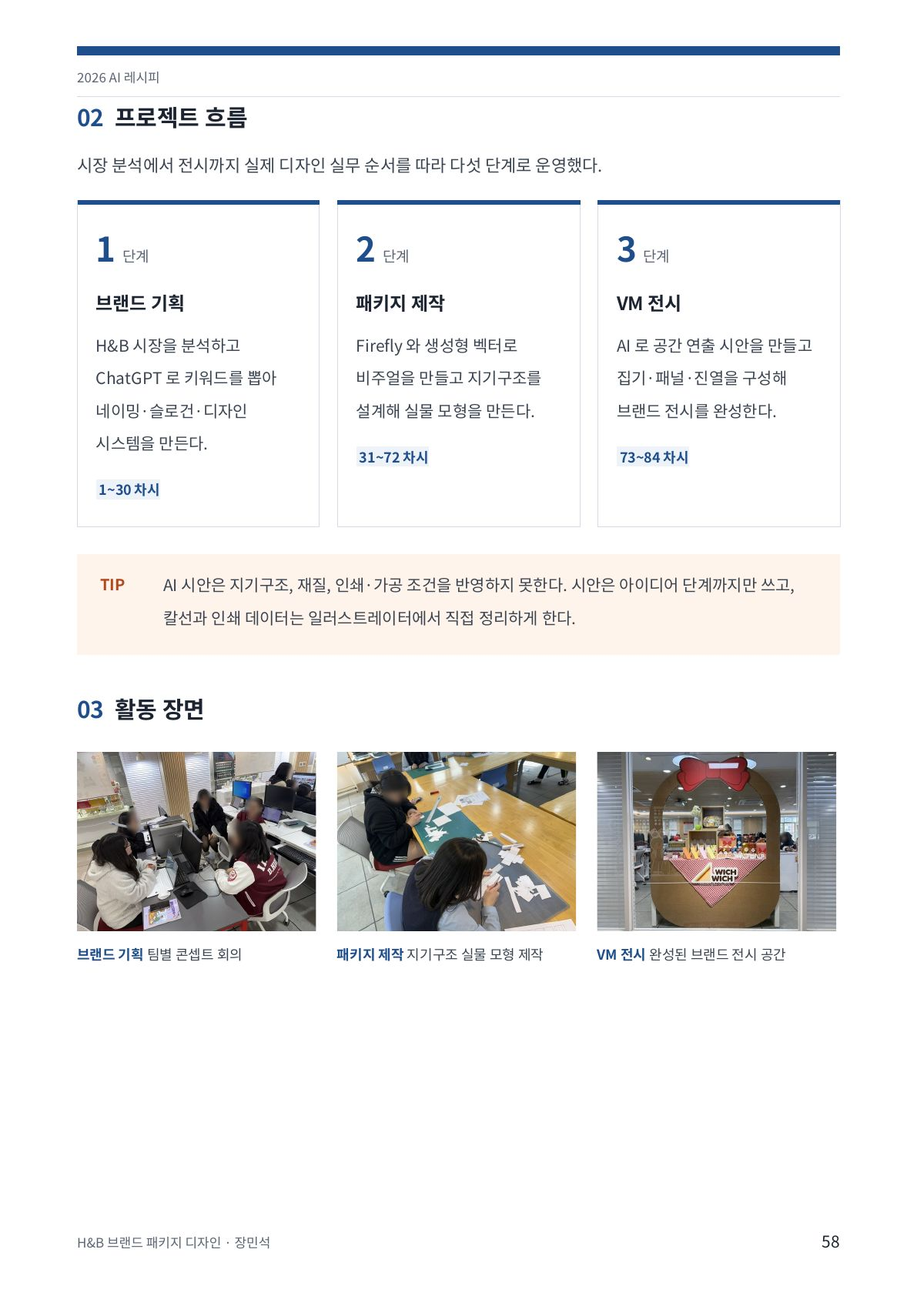
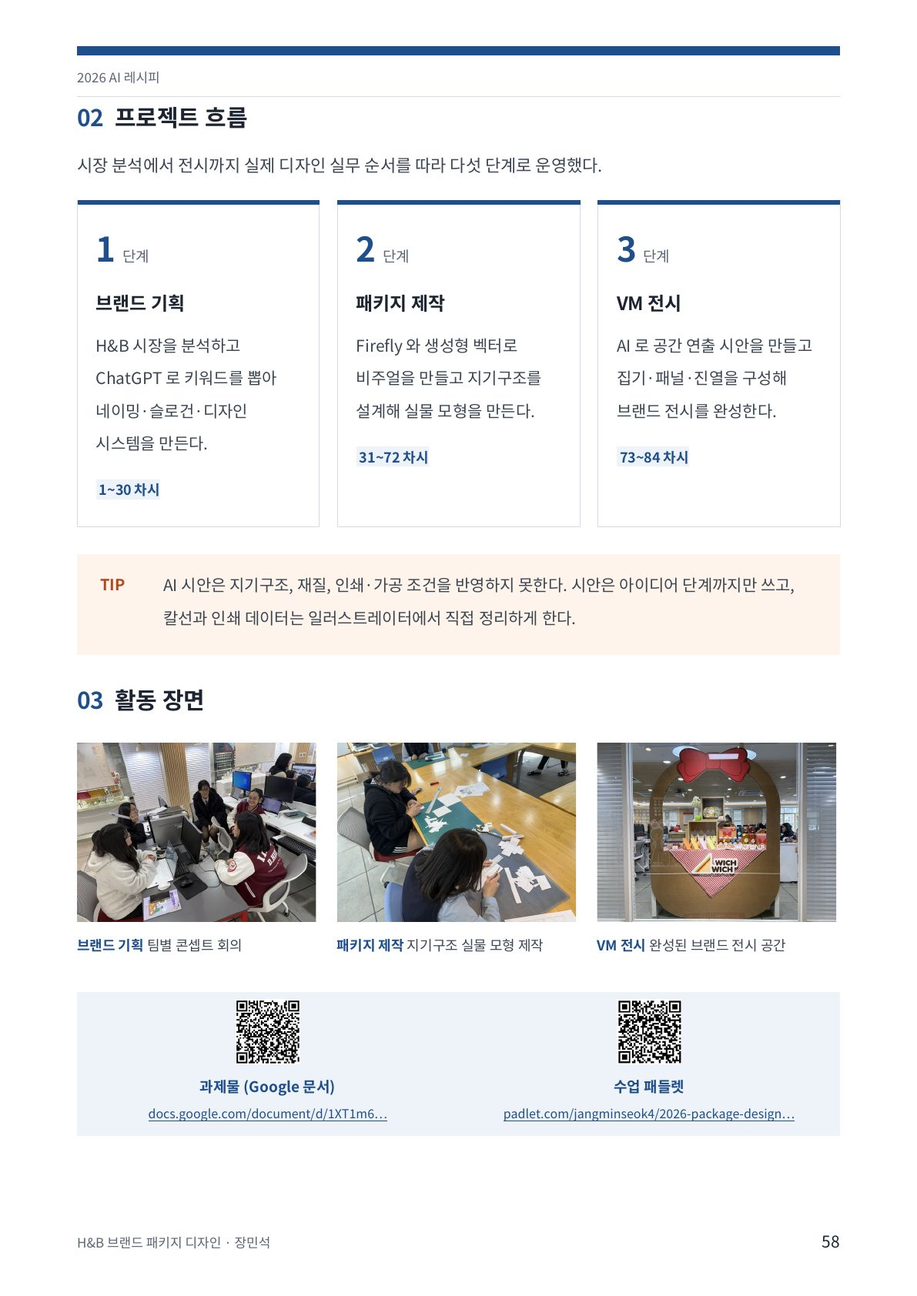
Add files via upload

Changed region(s): [[0.0621, 0.5249, 0.932, 0.7411], [0.5592, 0.772, 0.8699, 0.8646], [0.1553, 0.772, 0.4039, 0.8646]]

diff --git a/index.html b/index.html
@@ -21,7 +21,9 @@ button{font:inherit;color:inherit;cursor:pointer}
 button:focus-visible,a:focus-visible{outline:3px solid #5b9bff;outline-offset:2px}
 header,footer{background:var(--bar);border-bottom:1px solid var(--line);display:flex;align-items:center;gap:12px;padding:8px max(2vw,12px);flex:none}
 footer{border-bottom:0;border-top:1px solid var(--line)}
-.brand{font-weight:900;font-size:17px;letter-spacing:-.01em;white-space:nowrap}
+.brand{font-weight:900;font-size:17px;letter-spacing:-.01em;white-space:nowrap;overflow:hidden;text-overflow:ellipsis;min-width:0;flex:0 1 auto}
+.brand small{font-weight:700}
+@media(max-width:900px){.brand small{display:none}}
 .brand b{color:var(--navy)}:root[data-theme=dark] .brand b{color:#8db6f0}
 @media(prefers-color-scheme:dark){:root:not([data-theme=light]) .brand b{color:#8db6f0}}
 .sp{flex:1}
@@ -40,18 +42,20 @@ input[type=range]{flex:1;accent-color:var(--navy);height:44px}
 .page a.hot{position:absolute;border-radius:3px;background:rgba(31,78,140,0);transition:background .2s}
 .page a.hot:hover,.page a.hot:focus-visible{background:rgba(31,78,140,.14)}
 /* cover */
-.cover{background:var(--navy);color:#fff;display:flex;flex-direction:column;padding:9cqh 9cqw 7cqh}
-.cover .top{font-size:2.3cqh;font-weight:500;opacity:.8;border-top:.5cqh solid #fff;padding-top:1.6cqh}
-.cover h1{font-size:12cqh;line-height:1;font-weight:900;margin:8cqh 0 2.4cqh;letter-spacing:-.03em}
+.cover{background:var(--navy);color:#fff}
+.page>.in{position:absolute;inset:0;display:flex;flex-direction:column}
+.cover>.in{padding:9cqh 9cqw 7cqh}
+.cover .top{white-space:nowrap;font-size:2.3cqh;font-weight:500;opacity:.8;border-top:.5cqh solid #fff;padding-top:1.6cqh}
+.cover h1{white-space:nowrap;font-size:min(12cqh,17cqw);line-height:1;font-weight:900;margin:8cqh 0 2.4cqh;letter-spacing:-.03em}
 .cover h1 span{display:block;font-size:4.2cqh;line-height:1.3;font-weight:500;letter-spacing:0;margin-bottom:3cqh;opacity:.85}
-.cover .tag{line-height:1.45;font-size:3.2cqh;font-weight:500;letter-spacing:.02em;opacity:1;padding-top:2.4cqh;border-top:1px solid rgba(255,255,255,.35);display:inline-block}
+.cover .tag{white-space:nowrap;line-height:1.45;font-size:3.2cqh;font-weight:500;letter-spacing:.02em;opacity:1;padding-top:2.4cqh;border-top:1px solid rgba(255,255,255,.35);display:inline-block}
 .cover p{font-size:2.6cqh;line-height:1.55;margin:0;opacity:.92;max-width:80%}
 .cover .art{flex:1;position:relative;margin:4cqh 0}
 .cover .art svg{position:absolute;inset:0;width:100%;height:100%}
-.cover .bot{font-size:2cqh;display:flex;justify-content:flex-end;align-items:baseline;opacity:.85}
+.cover .bot{white-space:nowrap;font-size:2cqh;display:flex;justify-content:flex-end;align-items:baseline;opacity:.85}
 .cover .bot .school{font-size:2.8cqh;font-weight:700;opacity:1}
 /* toc */
-.toc{padding:8cqh 8cqw;display:flex;flex-direction:column}
+.toc>.in{padding:8cqh 8cqw}
 .toc .hd{border-top:.5cqh solid var(--navy);padding-top:1.6cqh;font-size:1.9cqh;color:#5b6b80;display:flex;justify-content:space-between}
 .toc h2{font-size:4.6cqh;margin:3.5cqh 0 .6cqh;font-weight:900;letter-spacing:-.02em}
 .toc .note{font-size:1.7cqh;color:#5b6b80;margin:0 0 2.4cqh}
@@ -67,7 +71,7 @@ input[type=range]{flex:1;accent-color:var(--navy);height:44px}
 .toc li button:hover .t{color:var(--navy);text-decoration:underline}
 .toc li button:focus-visible{outline:3px solid #5b9bff}
 .toc .n{font-size:1.65cqh;font-weight:700;color:var(--navy);font-variant-numeric:tabular-nums}
-.toc .t{font-size:1.65cqh;line-height:1.35;color:#14243a}
+.toc .t{word-break:keep-all;font-size:1.65cqh;line-height:1.35;color:#14243a}
 .toc .t em{font-style:normal;color:#5b6b80;font-size:1.45cqh}
 .toc li button .t{font-weight:500}
 .toc li.off .n{color:#8aa0bd}
@@ -114,7 +118,7 @@ input[type=range]{flex:1;accent-color:var(--navy);height:44px}
 
 <script>
 {
-const CASES = [{"no": "01", "kind": "수업 사례", "title": "필사타자 · 교과 타자 게임", "sub": "정보 처리와 관리", "pages": [{"img": "p1/d-1.jpg", "links": []}, {"img": "p1/c01-1.jpg", "links": []}, {"img": "p1/c01-2.jpg", "links": []}, {"img": "p1/c01-3.jpg", "links": [[78.71, 25.87, 8.78, 1.55, "https://onmine-alt.github.io/typing-game/"]]}, {"img": "p1/c01-4.jpg", "links": []}], "pre": 1}, {"no": "02", "kind": "수업 사례", "title": "사이언스 덱스 · 화석 탐험 도감", "sub": "과학", "pages": [{"img": "p1/c02-1.jpg", "links": []}, {"img": "p1/c02-2.jpg", "links": [[75.58, 74.93, 11.83, 1.55, "https://kyong2ssam.github.io/fossil-dex/"]]}, {"img": "p1/c02-3.jpg", "links": []}]}, {"no": "03", "kind": "수업 사례", "title": "생태계 평형 시뮬레이터", "sub": "과학", "pages": [{"img": "p1/c03-1.jpg", "links": []}, {"img": "p1/c03-2.jpg", "links": [[76.88, 77.54, 10.09, 1.55, "https://kyong2ssam.github.io/ecosystem_simulator/"]]}, {"img": "p1/c03-3.jpg", "links": []}]}, {"no": "04", "kind": "수업 사례", "title": "일본어 읽기 미션 게임", "sub": "일본어", "pages": [{"img": "p1/c04-1.jpg", "links": []}, {"img": "p1/c04-2.jpg", "links": [[76.98, 74.57, 9.04, 1.55, "https://2danwon.vercel.app/"]]}, {"img": "p1/c04-3.jpg", "links": []}]}, {"no": "05", "kind": "수업 사례", "title": "신나는 화폐 여행 보드게임", "sub": "특수학급", "pages": [{"img": "p1/c05-1.jpg", "links": []}, {"img": "p1/c05-2.jpg", "links": [[76.9, 86.01, 9.2, 1.55, "https://claude.ai/chat/24555cec-0643-4138-bad4-c878952e2497?artifact=bd0ea94b-ffb5-491e-9253-519242832a6c"]]}, {"img": "p1/c05-3.jpg", "links": []}, {"img": "p1/c05-4.jpg", "links": []}]}, {"no": "06", "kind": "수업 사례", "title": "명화, 빛으로 다시 태어나다 · 스테인드글라스 색채 기획 도구", "sub": "디자인", "pages": [{"img": "p1/c06-1.jpg", "links": []}, {"img": "p1/c06-2.jpg", "links": []}, {"img": "p1/c06-3.jpg", "links": []}, {"img": "p1/c06-4.jpg", "links": [[45.98, 51.43, 9.2, 1.55, "https://seohacolorclass.netlify.app/"]]}, {"img": "p1/c06-5.jpg", "links": []}]}, {"no": "07", "kind": "업무 사례", "title": "건축일반 수행평가 관리 시스템", "sub": "", "pages": [{"img": "p1/c07-1.jpg", "links": []}, {"img": "p1/c07-2.jpg", "links": []}, {"img": "p1/c07-3.jpg", "links": [[76.2, 31.84, 10.59, 1.55, "https://script.google.com/a/macros/gclass.ice.go.kr/s/AKfycbwDPR8mU1s0dLBr3Oh-Ud87GvECbYw7_RCJiOshCXXXDvC3_7LSfg9BXJ1kJb0tfmCNlQ/exec"]]}, {"img": "p1/c07-4.jpg", "links": []}]}, {"no": "08", "kind": "업무 사례", "title": "교직원 연수 등록 시스템", "sub": "", "pages": [{"img": "p1/c08-1.jpg", "links": []}, {"img": "p1/c08-2.jpg", "links": [[78.56, 61.84, 9.2, 1.55, "https://script.google.com/macros/s/AKfycbwSlg-lU3y91wYbLd0xmjNVUZYDNEHUmzGIbFHcfQdvEnmjXlsgvZCquf_VHKKy3eSEiA/exec"]]}, {"img": "p1/c08-3.jpg", "links": []}, {"img": "p1/c08-4.jpg", "links": []}]}, {"no": "09", "kind": "업무 사례", "title": "당신의 내일을 응원합니다 · 취업지원부 안내 웹앱", "sub": "", "pages": [{"img": "p1/c09-1.jpg", "links": []}, {"img": "p1/c09-2.jpg", "links": [[75.58, 75.0, 11.83, 1.55, "https://indigo520.vercel.app/"]]}, {"img": "p1/c09-3.jpg", "links": []}]}, {"no": "10", "kind": "업무 사례", "title": "진로 상담 설문 · 인천직업교육박람회", "sub": "", "pages": [{"img": "p1/c10-1.jpg", "links": []}, {"img": "p1/c10-2.jpg", "links": []}, {"img": "p1/c10-3.jpg", "links": []}, {"img": "p1/c10-4.jpg", "links": []}, {"img": "p1/c10-5.jpg", "links": []}, {"img": "p1/c10-6.jpg", "links": []}]}, {"no": "11", "kind": "업무 사례", "title": "면접 대비 등록 · 제품디자인과 3학년", "sub": "", "pages": [{"img": "p1/c11-1.jpg", "links": []}, {"img": "p1/c11-2.jpg", "links": [[75.41, 72.08, 12.16, 1.55, "https://script.google.com/a/macros/gclass.ice.go.kr/s/AKfycbzAL1Tqh7t2QKw4n2QopjK20wlvIbRUDzNJXgeestH46kzH_YuQUS1RP8VTr1FQeODX/exec"]]}, {"img": "p1/c11-3.jpg", "links": []}]}, {"no": "12", "kind": "업무 사례", "title": "오늘 뭐 읽지? · NEW BOOK PICK", "sub": "", "pages": [{"img": "p1/c12-1.jpg", "links": []}, {"img": "p1/c12-2.jpg", "links": [[74.32, 78.06, 15.2, 1.55, "https://new-book-pick-doseo-cuceon-aeb.vercel.app/"]]}, {"img": "p1/c12-3.jpg", "links": []}]}, {"no": "13", "kind": "5개 학과 사례", "title": "AI와 함께 설계하는 미래형 주택", "sub": "건축디자인과", "pages": [{"img": "p1/d-2.jpg", "links": []}, {"img": "p1/c13-1.jpg", "links": []}, {"img": "p1/c13-2.jpg", "links": []}, {"img": "p1/c13-3.jpg", "links": []}], "pre": 1}, {"no": "14", "kind": "5개 학과 사례", "title": "빛으로 입히는 도자 문양", "sub": "도예디자인과", "pages": [{"img": "p1/c14-1.jpg", "links": []}, {"img": "p1/c14-2.jpg", "links": [[20.74, 85.24, 16.93, 1.38, "https://www.canvaqr.com/RGXuVH2nrO"], [58.45, 85.24, 24.72, 1.38, "https://drive.google.com/drive/folders/1gO7q-fwfzMeuWrWPMCtf4W5tdabV8Dvh?usp=drive_link"]]}, {"img": "p1/c14-3.jpg", "links": []}]}, {"no": "15", "kind": "5개 학과 사례", "title": "H&B 브랜드 패키지 디자인", "sub": "시각디자인과", "pages": [{"img": "p1/c15-1.jpg", "links": []}, {"img": "p1/c15-2.jpg", "links": []}, {"img": "p1/c15-3.jpg", "links": []}]}, {"no": "16", "kind": "5개 학과 사례", "title": "나를 닮은 캐릭터 피규어", "sub": "제품디자인과", "pages": [{"img": "p1/c16-1.jpg", "links": []}, {"img": "p1/c16-2.jpg", "links": []}, {"img": "p1/c16-3.jpg", "links": []}]}, {"no": "17", "kind": "5개 학과 사례", "title": "AI 융합 패션디자인", "sub": "패션디자인과", "pages": [{"img": "p1/c17-1.jpg", "links": []}, {"img": "p1/c17-2.jpg", "links": [[24.35, 84.22, 21.97, 1.55, "https://m.site.naver.com/2lzCa"]]}, {"img": "p1/c17-3.jpg", "links": []}]}, {"no": "18", "kind": "교과 사례", "title": "AI와 함께 만드는 ‘나를 소개합니다’ 프로젝트", "sub": "정보 처리와 관리", "pages": [{"img": "p2/c18-1.jpg", "links": []}, {"img": "p2/c18-2.jpg", "links": [[73.36, 81.59, 7.71, 1.63, "https://padlet.com/icedukr/1-2-a8mvstyo172hej5s"]]}, {"img": "p2/c18-3.jpg", "links": []}]}, {"no": "19", "kind": "교과 사례", "title": "탄소 중립 에코 스마트 시티 설계", "sub": "통합과학", "pages": [{"img": "p2/c19-1.jpg", "links": []}, {"img": "p2/c19-2.jpg", "links": []}, {"img": "p2/c19-3.jpg", "links": []}]}, {"no": "20", "kind": "교과 사례", "title": "노션으로 잇는 수업·기록·평가", "sub": "통합사회2", "pages": [{"img": "p2/c20-1.jpg", "links": []}, {"img": "p2/c20-2.jpg", "links": []}, {"img": "p2/c20-3.jpg", "links": []}]}, {"no": "21", "kind": "교과 사례", "title": "노트북LM으로 짓는 삶과 인권 수업", "sub": "통합사회2", "pages": [{"img": "p2/c21-1.jpg", "links": []}, {"img": "p2/c21-2.jpg", "links": []}, {"img": "p2/c21-3.jpg", "links": []}]}, {"no": "22", "kind": "교과 사례", "title": "노트북LM으로 만드는 한국사 수업 자료", "sub": "한국사2", "pages": [{"img": "p2/c22-1.jpg", "links": []}, {"img": "p2/c22-2.jpg", "links": []}, {"img": "p2/c22-3.jpg", "links": []}]}, {"no": "23", "kind": "교과 사례", "title": "일제강점기 역사 신문, 영상이 되다", "sub": "한국사2", "pages": [{"img": "p2/c23-1.jpg", "links": []}, {"img": "p2/c23-2.jpg", "links": [[72.32, 69.91, 4.03, 1.55, "https://drive.google.com/file/d/1E3Js638kzXX469TrUWBBQ5skG8ZX8Wje/view?usp=drive_link"], [80.4, 69.91, 4.03, 1.55, "https://drive.google.com/file/d/1f9-jnTe0ZbOOxosWe36XAF1lNEOobt7F/view?usp=drive_link"]]}, {"img": "p2/c23-3.jpg", "links": []}]}, {"no": "24", "kind": "AI 코스웨어", "title": "AI와 함께하는 영어 문해력 점프업", "sub": "영어", "pages": [{"img": "p1/d-3.jpg", "links": []}, {"img": "p2/c24-1.jpg", "links": []}, {"img": "p2/c24-2.jpg", "links": []}, {"img": "p2/c24-3.jpg", "links": []}], "pre": 1}, {"no": "25", "kind": "AI 코스웨어", "title": "AI 코스웨어 수학 레벨-업", "sub": "수학", "pages": [{"img": "p2/c25-1.jpg", "links": []}, {"img": "p2/c25-2.jpg", "links": []}, {"img": "p2/c25-3.jpg", "links": []}]}, {"no": "26", "kind": "AI 동아리 사례", "title": "케냐 소웨토에 보내는 영어 동화책", "sub": "스토리움", "pages": [{"img": "p1/d-4.jpg", "links": []}, {"img": "p2/c26-1.jpg", "links": []}, {"img": "p2/c26-2.jpg", "links": [[24.35, 86.31, 43.43, 1.55, "https://padlet.app/qr-code/1v89xyd7e3pgk6j0?source=dialog"]]}, {"img": "p2/c26-3.jpg", "links": []}], "pre": 1}, {"no": "27", "kind": "AI 동아리 사례", "title": "보드게임 카페에서 시작한 게임 개발", "sub": "보드게임카페", "pages": [{"img": "p2/c27-1.jpg", "links": []}, {"img": "p2/c27-2.jpg", "links": [[14.78, 85.24, 14.99, 1.38, "https://m.site.naver.com/2l8D7"], [70.34, 85.24, 14.8, 1.38, "https://m.site.naver.com/2l8Ey"], [42.48, 85.24, 15.05, 1.38, "https://m.site.naver.com/2l8DT"]]}, {"img": "p2/c27-3.jpg", "links": []}]}, {"no": "28", "kind": "AI 동아리 사례", "title": "AI로 디자인한 우리 학교", "sub": "비주얼디자인멤버스", "pages": [{"img": "p2/c28-1.jpg", "links": []}, {"img": "p2/c28-2.jpg", "links": []}, {"img": "p2/c28-3.jpg", "links": []}]}, {"no": "29", "kind": "AI 동아리 사례", "title": "AI와 함께 디자인하고 나누다", "sub": "패션창업반 체리쉬", "pages": [{"img": "p2/c29-1.jpg", "links": []}, {"img": "p2/c29-2.jpg", "links": []}, {"img": "p2/c29-3.jpg", "links": []}]}, {"no": "30", "kind": "AI 동아리 사례", "title": "너의 이름을 모르는 채로", "sub": "AI씨네마", "pages": [{"img": "p2/c30-1.jpg", "links": []}, {"img": "p2/c30-2.jpg", "links": [[24.35, 84.22, 34.08, 1.55, "https://padlet.com/icedukr/ai-csl0vwxren0velk1"]]}, {"img": "p2/c30-3.jpg", "links": []}]}, {"no": "31", "kind": "AI 동아리 사례", "title": "한 땀 한 땀, AI와 함께", "sub": "AI 티끌모아 바느질 클럽", "pages": [{"img": "p2/c31-1.jpg", "links": []}, {"img": "p2/c31-2.jpg", "links": [[14.77, 87.26, 15.0, 1.38, "https://m.site.naver.com/2lC0d"], [70.22, 87.26, 15.05, 1.38, "https://m.site.naver.com/2luPh"], [42.57, 87.26, 14.89, 1.38, "https://m.site.naver.com/2luLX"]]}, {"img": "p2/c31-3.jpg", "links": []}]}, {"no": "32", "kind": "AI 전문적학습공동체 활동", "title": "디지털설계공작소", "sub": "건축디자인과", "pages": [{"img": "p1/d-5.jpg", "links": []}, {"img": "p2/c32-1.jpg", "links": []}, {"img": "p2/c32-2.jpg", "links": []}, {"img": "p2/c32-3.jpg", "links": []}], "pre": 1}, {"no": "33", "kind": "AI 전문적학습공동체 활동", "title": "AI 갤러리", "sub": "도예디자인과", "pages": [{"img": "p2/c33-1.jpg", "links": []}, {"img": "p2/c33-2.jpg", "links": []}, {"img": "p2/c33-3.jpg", "links": []}]}, {"no": "34", "kind": "AI 전문적학습공동체 활동", "title": "AI·패션스튜디오", "sub": "패션디자인과", "pages": [{"img": "p2/c34-1.jpg", "links": []}, {"img": "p2/c34-2.jpg", "links": [[14.65, 87.26, 15.25, 1.38, "https://m.site.naver.com/2lBbU"], [70.39, 87.26, 14.69, 1.38, "https://m.site.naver.com/2lBlC"], [42.46, 87.26, 15.09, 1.38, "https://m.site.naver.com/2lBnh"]]}, {"img": "p2/c34-3.jpg", "links": []}]}, {"no": "35", "kind": "AI 전문적학습공동체 활동", "title": "AI디어 광고 연구소", "sub": "디자인·사회 교과", "pages": [{"img": "p2/c35-1.jpg", "links": []}, {"img": "p2/c35-2.jpg", "links": [[24.35, 86.23, 20.84, 1.55, "https://total-page.pages.dev/"]]}, {"img": "p2/c35-3.jpg", "links": []}]}, {"no": "36", "kind": "AI 전문적학습공동체 활동", "title": "AI 레시피", "sub": "교사 12명", "pages": [{"img": "p2/c36-1.jpg", "links": []}, {"img": "p2/c36-2.jpg", "links": []}, {"img": "p2/c36-3.jpg", "links": [[18.49, 90.39, 21.45, 1.38, "https://onmine-alt.github.io/typing-game/"], [60.61, 90.39, 20.38, 1.38, "https://kyong2ssam.github.io/fossil-dex/"]]}, {"img": "p1/thanks.jpg", "links": []}]}];
+const CASES = [{"no": "01", "kind": "수업 사례", "title": "필사타자 · 교과 타자 게임", "sub": "정보 처리와 관리", "pages": [{"img": "p1/d-1.jpg", "links": []}, {"img": "p1/c01-1.jpg", "links": []}, {"img": "p1/c01-2.jpg", "links": []}, {"img": "p1/c01-3.jpg", "links": [[78.71, 25.87, 8.78, 1.55, "https://onmine-alt.github.io/typing-game/"]]}, {"img": "p1/c01-4.jpg", "links": []}], "pre": 1}, {"no": "02", "kind": "수업 사례", "title": "사이언스 덱스 · 화석 탐험 도감", "sub": "과학", "pages": [{"img": "p1/c02-1.jpg", "links": []}, {"img": "p1/c02-2.jpg", "links": [[75.58, 74.93, 11.83, 1.55, "https://kyong2ssam.github.io/fossil-dex/"]]}, {"img": "p1/c02-3.jpg", "links": []}]}, {"no": "03", "kind": "수업 사례", "title": "생태계 평형 시뮬레이터", "sub": "과학", "pages": [{"img": "p1/c03-1.jpg", "links": []}, {"img": "p1/c03-2.jpg", "links": [[76.88, 77.54, 10.09, 1.55, "https://kyong2ssam.github.io/ecosystem_simulator/"]]}, {"img": "p1/c03-3.jpg", "links": []}]}, {"no": "04", "kind": "수업 사례", "title": "일본어 읽기 미션 게임", "sub": "일본어", "pages": [{"img": "p1/c04-1.jpg", "links": []}, {"img": "p1/c04-2.jpg", "links": [[76.98, 74.57, 9.04, 1.55, "https://2danwon.vercel.app/"]]}, {"img": "p1/c04-3.jpg", "links": []}]}, {"no": "05", "kind": "수업 사례", "title": "신나는 화폐 여행 보드게임", "sub": "특수학급", "pages": [{"img": "p1/c05-1.jpg", "links": []}, {"img": "p1/c05-2.jpg", "links": [[76.9, 86.01, 9.2, 1.55, "https://claude.ai/chat/24555cec-0643-4138-bad4-c878952e2497?artifact=bd0ea94b-ffb5-491e-9253-519242832a6c"]]}, {"img": "p1/c05-3.jpg", "links": []}, {"img": "p1/c05-4.jpg", "links": []}]}, {"no": "06", "kind": "수업 사례", "title": "명화, 빛으로 다시 태어나다 · 스테인드글라스 색채 기획 도구", "sub": "디자인", "pages": [{"img": "p1/c06-1.jpg", "links": []}, {"img": "p1/c06-2.jpg", "links": []}, {"img": "p1/c06-3.jpg", "links": []}, {"img": "p1/c06-4.jpg", "links": [[45.98, 51.43, 9.2, 1.55, "https://seohacolorclass.netlify.app/"]]}, {"img": "p1/c06-5.jpg", "links": []}]}, {"no": "07", "kind": "업무 사례", "title": "건축일반 수행평가 관리 시스템", "sub": "", "pages": [{"img": "p1/c07-1.jpg", "links": []}, {"img": "p1/c07-2.jpg", "links": []}, {"img": "p1/c07-3.jpg", "links": [[76.2, 31.84, 10.59, 1.55, "https://script.google.com/a/macros/gclass.ice.go.kr/s/AKfycbwDPR8mU1s0dLBr3Oh-Ud87GvECbYw7_RCJiOshCXXXDvC3_7LSfg9BXJ1kJb0tfmCNlQ/exec"]]}, {"img": "p1/c07-4.jpg", "links": []}]}, {"no": "08", "kind": "업무 사례", "title": "교직원 연수 등록 시스템", "sub": "", "pages": [{"img": "p1/c08-1.jpg", "links": []}, {"img": "p1/c08-2.jpg", "links": [[78.56, 61.84, 9.2, 1.55, "https://script.google.com/macros/s/AKfycbwSlg-lU3y91wYbLd0xmjNVUZYDNEHUmzGIbFHcfQdvEnmjXlsgvZCquf_VHKKy3eSEiA/exec"]]}, {"img": "p1/c08-3.jpg", "links": []}, {"img": "p1/c08-4.jpg", "links": []}]}, {"no": "09", "kind": "업무 사례", "title": "당신의 내일을 응원합니다 · 취업지원부 안내 웹앱", "sub": "", "pages": [{"img": "p1/c09-1.jpg", "links": []}, {"img": "p1/c09-2.jpg", "links": [[75.58, 75.0, 11.83, 1.55, "https://indigo520.vercel.app/"]]}, {"img": "p1/c09-3.jpg", "links": []}]}, {"no": "10", "kind": "업무 사례", "title": "진로 상담 설문 · 인천직업교육박람회", "sub": "", "pages": [{"img": "p1/c10-1.jpg", "links": []}, {"img": "p1/c10-2.jpg", "links": []}, {"img": "p1/c10-3.jpg", "links": []}, {"img": "p1/c10-4.jpg", "links": []}, {"img": "p1/c10-5.jpg", "links": []}, {"img": "p1/c10-6.jpg", "links": []}]}, {"no": "11", "kind": "업무 사례", "title": "면접 대비 등록 · 제품디자인과 3학년", "sub": "", "pages": [{"img": "p1/c11-1.jpg", "links": []}, {"img": "p1/c11-2.jpg", "links": [[75.41, 72.08, 12.16, 1.55, "https://script.google.com/a/macros/gclass.ice.go.kr/s/AKfycbzAL1Tqh7t2QKw4n2QopjK20wlvIbRUDzNJXgeestH46kzH_YuQUS1RP8VTr1FQeODX/exec"]]}, {"img": "p1/c11-3.jpg", "links": []}]}, {"no": "12", "kind": "업무 사례", "title": "오늘 뭐 읽지? · NEW BOOK PICK", "sub": "", "pages": [{"img": "p1/c12-1.jpg", "links": []}, {"img": "p1/c12-2.jpg", "links": [[74.32, 78.06, 15.2, 1.55, "https://new-book-pick-doseo-cuceon-aeb.vercel.app/"]]}, {"img": "p1/c12-3.jpg", "links": []}]}, {"no": "13", "kind": "5개 학과 사례", "title": "AI와 함께 설계하는 미래형 주택", "sub": "건축디자인과", "pages": [{"img": "p1/d-2.jpg", "links": []}, {"img": "p1/c13-1.jpg", "links": []}, {"img": "p1/c13-2.jpg", "links": []}, {"img": "p1/c13-3.jpg", "links": []}], "pre": 1}, {"no": "14", "kind": "5개 학과 사례", "title": "빛으로 입히는 도자 문양", "sub": "도예디자인과", "pages": [{"img": "p1/c14-1.jpg", "links": []}, {"img": "p1/c14-2.jpg", "links": [[20.74, 85.24, 16.93, 1.38, "https://www.canvaqr.com/RGXuVH2nrO"], [58.45, 85.24, 24.72, 1.38, "https://drive.google.com/drive/folders/1gO7q-fwfzMeuWrWPMCtf4W5tdabV8Dvh?usp=drive_link"]]}, {"img": "p1/c14-3.jpg", "links": []}]}, {"no": "15", "kind": "5개 학과 사례", "title": "H&B 브랜드 패키지 디자인", "sub": "시각디자인과", "pages": [{"img": "p1/c15-1.jpg", "links": []}, {"img": "p1/c15-2.jpg", "links": [[16.16, 85.24, 26.09, 1.38, "https://docs.google.com/document/d/1XT1m6OUVmxnib5QbHBBDJupOWl5-mVNupCGdV5meNv0/edit?usp=sharing"], [54.9, 85.24, 31.82, 1.38, "https://padlet.com/jangminseok4/2026-package-design-9aa865cun4k2dhoz"]]}, {"img": "p1/c15-3.jpg", "links": []}]}, {"no": "16", "kind": "5개 학과 사례", "title": "나를 닮은 캐릭터 피규어", "sub": "제품디자인과", "pages": [{"img": "p1/c16-1.jpg", "links": []}, {"img": "p1/c16-2.jpg", "links": []}, {"img": "p1/c16-3.jpg", "links": []}]}, {"no": "17", "kind": "5개 학과 사례", "title": "AI 융합 패션디자인", "sub": "패션디자인과", "pages": [{"img": "p1/c17-1.jpg", "links": []}, {"img": "p1/c17-2.jpg", "links": [[24.35, 84.22, 21.97, 1.55, "https://m.site.naver.com/2lzCa"]]}, {"img": "p1/c17-3.jpg", "links": []}]}, {"no": "18", "kind": "교과 사례", "title": "AI와 함께 만드는 ‘나를 소개합니다’ 프로젝트", "sub": "정보 처리와 관리", "pages": [{"img": "p2/c18-1.jpg", "links": []}, {"img": "p2/c18-2.jpg", "links": [[73.36, 81.59, 7.71, 1.63, "https://padlet.com/icedukr/1-2-a8mvstyo172hej5s"]]}, {"img": "p2/c18-3.jpg", "links": []}]}, {"no": "19", "kind": "교과 사례", "title": "탄소 중립 에코 스마트 시티 설계", "sub": "통합과학", "pages": [{"img": "p2/c19-1.jpg", "links": []}, {"img": "p2/c19-2.jpg", "links": []}, {"img": "p2/c19-3.jpg", "links": []}]}, {"no": "20", "kind": "교과 사례", "title": "노션으로 잇는 수업·기록·평가", "sub": "통합사회2", "pages": [{"img": "p2/c20-1.jpg", "links": []}, {"img": "p2/c20-2.jpg", "links": []}, {"img": "p2/c20-3.jpg", "links": []}]}, {"no": "21", "kind": "교과 사례", "title": "노트북LM으로 짓는 삶과 인권 수업", "sub": "통합사회2", "pages": [{"img": "p2/c21-1.jpg", "links": []}, {"img": "p2/c21-2.jpg", "links": []}, {"img": "p2/c21-3.jpg", "links": []}]}, {"no": "22", "kind": "교과 사례", "title": "노트북LM으로 만드는 한국사 수업 자료", "sub": "한국사2", "pages": [{"img": "p2/c22-1.jpg", "links": []}, {"img": "p2/c22-2.jpg", "links": []}, {"img": "p2/c22-3.jpg", "links": []}]}, {"no": "23", "kind": "교과 사례", "title": "일제강점기 역사 신문, 영상이 되다", "sub": "한국사2", "pages": [{"img": "p2/c23-1.jpg", "links": []}, {"img": "p2/c23-2.jpg", "links": [[72.32, 69.91, 4.03, 1.55, "https://drive.google.com/file/d/1E3Js638kzXX469TrUWBBQ5skG8ZX8Wje/view?usp=drive_link"], [80.4, 69.91, 4.03, 1.55, "https://drive.google.com/file/d/1f9-jnTe0ZbOOxosWe36XAF1lNEOobt7F/view?usp=drive_link"]]}, {"img": "p2/c23-3.jpg", "links": []}]}, {"no": "24", "kind": "AI 코스웨어", "title": "AI와 함께하는 영어 문해력 점프업", "sub": "영어", "pages": [{"img": "p1/d-3.jpg", "links": []}, {"img": "p2/c24-1.jpg", "links": []}, {"img": "p2/c24-2.jpg", "links": []}, {"img": "p2/c24-3.jpg", "links": []}], "pre": 1}, {"no": "25", "kind": "AI 코스웨어", "title": "AI 코스웨어 수학 레벨-업", "sub": "수학", "pages": [{"img": "p2/c25-1.jpg", "links": []}, {"img": "p2/c25-2.jpg", "links": []}, {"img": "p2/c25-3.jpg", "links": []}]}, {"no": "26", "kind": "AI 동아리 사례", "title": "케냐 소웨토에 보내는 영어 동화책", "sub": "스토리움", "pages": [{"img": "p1/d-4.jpg", "links": []}, {"img": "p2/c26-1.jpg", "links": []}, {"img": "p2/c26-2.jpg", "links": [[24.35, 86.31, 43.43, 1.55, "https://padlet.app/qr-code/1v89xyd7e3pgk6j0?source=dialog"]]}, {"img": "p2/c26-3.jpg", "links": []}], "pre": 1}, {"no": "27", "kind": "AI 동아리 사례", "title": "보드게임 카페에서 시작한 게임 개발", "sub": "보드게임카페", "pages": [{"img": "p2/c27-1.jpg", "links": []}, {"img": "p2/c27-2.jpg", "links": [[14.78, 85.24, 14.99, 1.38, "https://m.site.naver.com/2l8D7"], [70.34, 85.24, 14.8, 1.38, "https://m.site.naver.com/2l8Ey"], [42.48, 85.24, 15.05, 1.38, "https://m.site.naver.com/2l8DT"]]}, {"img": "p2/c27-3.jpg", "links": []}]}, {"no": "28", "kind": "AI 동아리 사례", "title": "AI로 디자인한 우리 학교", "sub": "비주얼디자인멤버스", "pages": [{"img": "p2/c28-1.jpg", "links": []}, {"img": "p2/c28-2.jpg", "links": []}, {"img": "p2/c28-3.jpg", "links": []}]}, {"no": "29", "kind": "AI 동아리 사례", "title": "AI와 함께 디자인하고 나누다", "sub": "패션창업반 체리쉬", "pages": [{"img": "p2/c29-1.jpg", "links": []}, {"img": "p2/c29-2.jpg", "links": []}, {"img": "p2/c29-3.jpg", "links": []}]}, {"no": "30", "kind": "AI 동아리 사례", "title": "너의 이름을 모르는 채로", "sub": "AI씨네마", "pages": [{"img": "p2/c30-1.jpg", "links": []}, {"img": "p2/c30-2.jpg", "links": [[24.35, 84.22, 34.08, 1.55, "https://padlet.com/icedukr/ai-csl0vwxren0velk1"]]}, {"img": "p2/c30-3.jpg", "links": []}]}, {"no": "31", "kind": "AI 동아리 사례", "title": "한 땀 한 땀, AI와 함께", "sub": "AI 티끌모아 바느질 클럽", "pages": [{"img": "p2/c31-1.jpg", "links": []}, {"img": "p2/c31-2.jpg", "links": [[14.77, 87.26, 15.0, 1.38, "https://m.site.naver.com/2lC0d"], [70.22, 87.26, 15.05, 1.38, "https://m.site.naver.com/2luPh"], [42.57, 87.26, 14.89, 1.38, "https://m.site.naver.com/2luLX"]]}, {"img": "p2/c31-3.jpg", "links": []}]}, {"no": "32", "kind": "AI 전문적학습공동체 활동", "title": "디지털설계공작소", "sub": "건축디자인과", "pages": [{"img": "p1/d-5.jpg", "links": []}, {"img": "p2/c32-1.jpg", "links": []}, {"img": "p2/c32-2.jpg", "links": []}, {"img": "p2/c32-3.jpg", "links": []}], "pre": 1}, {"no": "33", "kind": "AI 전문적학습공동체 활동", "title": "AI 갤러리", "sub": "도예디자인과", "pages": [{"img": "p2/c33-1.jpg", "links": []}, {"img": "p2/c33-2.jpg", "links": []}, {"img": "p2/c33-3.jpg", "links": []}]}, {"no": "34", "kind": "AI 전문적학습공동체 활동", "title": "AI·패션스튜디오", "sub": "패션디자인과", "pages": [{"img": "p2/c34-1.jpg", "links": []}, {"img": "p2/c34-2.jpg", "links": [[14.65, 87.26, 15.25, 1.38, "https://m.site.naver.com/2lBbU"], [70.39, 87.26, 14.69, 1.38, "https://m.site.naver.com/2lBlC"], [42.46, 87.26, 15.09, 1.38, "https://m.site.naver.com/2lBnh"]]}, {"img": "p2/c34-3.jpg", "links": []}]}, {"no": "35", "kind": "AI 전문적학습공동체 활동", "title": "AI디어 광고 연구소", "sub": "디자인·사회 교과", "pages": [{"img": "p2/c35-1.jpg", "links": []}, {"img": "p2/c35-2.jpg", "links": [[24.35, 86.23, 20.84, 1.55, "https://total-page.pages.dev/"]]}, {"img": "p2/c35-3.jpg", "links": []}]}, {"no": "36", "kind": "AI 전문적학습공동체 활동", "title": "AI 레시피", "sub": "교사 12명", "pages": [{"img": "p2/c36-1.jpg", "links": []}, {"img": "p2/c36-2.jpg", "links": []}, {"img": "p2/c36-3.jpg", "links": [[18.49, 90.39, 21.45, 1.38, "https://onmine-alt.github.io/typing-game/"], [60.61, 90.39, 20.38, 1.38, "https://kyong2ssam.github.io/fossil-dex/"]]}, {"img": "p1/thanks.jpg", "links": []}]}];
 
 // flat page list: cover, toc, then each case page
 const TOC = [["Ⅰ", "앱 제작", [["수업 사례", [["01", "필사타자 · 교과 타자 게임", "정보 처리와 관리"], ["02", "사이언스 덱스 · 화석 탐험 도감", "과학"], ["03", "생태계 평형 시뮬레이터", "과학"], ["04", "일본어 읽기 미션 게임", "일본어"], ["05", "신나는 화폐 여행 보드게임", "특수학급"], ["06", "명화, 빛으로 다시 태어나다 · 스테인드글라스 색채 기획 도구", "디자인"]]], ["업무 사례", [["07", "건축일반 수행평가 관리 시스템", ""], ["08", "교직원 연수 등록 시스템", ""], ["09", "당신의 내일을 응원합니다 · 취업지원부 안내 웹앱", ""], ["10", "진로 상담 설문 · 인천직업교육박람회", ""], ["11", "면접 대비 등록 · 제품디자인과 3학년", ""], ["12", "오늘 뭐 읽지? · NEW BOOK PICK", ""]]]]], ["Ⅱ", "AI 에듀테크 활용", [["5개 학과 사례", [["13", "AI와 함께 설계하는 미래형 주택", "건축디자인과"], ["14", "빛으로 입히는 도자 문양", "도예디자인과"], ["15", "H&B 브랜드 패키지 디자인", "시각디자인과"], ["16", "나를 닮은 캐릭터 피규어", "제품디자인과"], ["17", "AI 융합 패션디자인", "패션디자인과"]]], ["교과 사례", [["18", "AI와 함께 만드는 ‘나를 소개합니다’ 프로젝트", "정보 처리와 관리"], ["19", "탄소 중립 에코 스마트 시티 설계", "통합과학"], ["20", "노션으로 잇는 수업·기록·평가", "통합사회2"], ["21", "노트북LM으로 짓는 삶과 인권 수업", "통합사회2"], ["22", "노트북LM으로 만드는 한국사 수업 자료", "한국사2"], ["23", "일제강점기 역사 신문, 영상이 되다", "한국사2"]]]]], ["Ⅲ", "AI 코스웨어", [[null, [["24", "AI와 함께하는 영어 문해력 점프업", "영어"], ["25", "AI 코스웨어 수학 레벨-업", "수학"]]]]], ["Ⅳ", "AI 동아리 사례", [[null, [["26", "케냐 소웨토에 보내는 영어 동화책", "스토리움"], ["27", "보드게임 카페에서 시작한 게임 개발", "보드게임카페"], ["28", "AI로 디자인한 우리 학교", "비주얼디자인멤버스"], ["29", "AI와 함께 디자인하고 나누다", "패션창업반 체리쉬"], ["30", "너의 이름을 모르는 채로", "AI씨네마"], ["31", "한 땀 한 땀, AI와 함께", "AI 티끌모아 바느질 클럽"]]]]], ["Ⅴ", "AI 전문적학습공동체 활동", [[null, [["32", "디지털설계공작소", "건축디자인과"], ["33", "AI 갤러리", "도예디자인과"], ["34", "AI·패션스튜디오", "패션디자인과"], ["35", "AI디어 광고 연구소", "디자인·사회 교과"], ["36", "AI 레시피", "교사 12명"]]]]]];
@@ -125,7 +129,7 @@ const pno = i => i; // printed page number (cover = 0, 목차 = 1)
 
 const esc = s => String(s).replace(/[&<>"']/g, m => ({'&':'&amp;','<':'&lt;','>':'&gt;','"':'&quot;',"'":'&#39;'}[m]));
 
-const coverHTML = () => `<div class="page cover">
+const coverHTML = () => `<div class="page cover"><div class="in">
   <div class="top">2026 AI 디지털 활용 선도학교</div>
   <h1><span>AI 에듀테크 활용<br>앱 제작 사례집</span>AI 레시피</h1>
   <p class="tag">배우고, 만들고, 엮다</p>
@@ -143,17 +147,17 @@ const coverHTML = () => `<div class="page cover">
     <circle cx="330" cy="210" r="34" fill="#B4471A"/><text x="330" y="217" text-anchor="middle" font-size="20" font-weight="900" fill="#fff" font-family="Noto Sans KR">AI</text>
   </svg></div>
   <div class="bot"><span class="school">인천디자인고등학교</span></div>
-</div>`;
+</div></div>`;
 
 const TOC_SPLIT = [[[0,[0,1]]],[[1,[0,1]],[2,[0]]],[[3,[0]],[4,[0]]]];
 const tocItem = ([no,t,tag]) => { const has = start[no] !== undefined;
   return `<li${has?'':' class="off"'}>${has?`<button data-go="${start[no]}">`:'<div class="row">'}<span class="n">${esc(no)}</span><span class="t">${esc(t)}${tag?` <em>${esc(tag)}</em>`:''}</span><span class="pg">${has?pno(start[no])+'쪽':''}</span>${has?'</button>':'</div>'}</li>`; };
-const tocHTML = part => `<div class="page toc">
+const tocHTML = part => `<div class="page toc"><div class="in">
   <div class="hd"><span>2026 AI 레시피</span><span>목차 ${part+1}/3</span></div>
   ${part===0?'<h2>목차</h2><p class="note">제목을 누르면 해당 사례로 이동합니다.</p>':'<div class="gap"></div>'}
   ${TOC_SPLIT[part].map(([ai,gi,cont]) => { const [r,name,all] = TOC[ai]; const n = all.reduce((a,g)=>a+g[1].length,0); const groups = gi.map(k => all[k]);
     return `<section><h3><b>${r}</b>${esc(name)}<small>${cont?'(계속)':n}</small></h3>${groups.map(([g,items]) => `${g?`<h4>${esc(g)} <small>${items.length}</small></h4>`:''}<ol>${items.map(tocItem).join('')}</ol>`).join('')}</section>`; }).join('')}
-</div>`;
+</div></div>`;
 
 const imgHTML = p => `<div class="page"><img src="${esc(p.img)}" alt="사례 ${esc(p.c.no)} ${esc(p.c.title)} ${p.i+1}쪽" loading="lazy">${
   p.links.map(([x,y,w,h,u]) => `<a class="hot" href="${esc(u)}" target="_blank" rel="noopener" style="left:${x-.6}%;top:${y-1}%;width:${w+1.2}%;height:${Math.max(h+2,3)}%" aria-label="링크 열기: ${esc(u)}"></a>`).join('')}</div>`;
